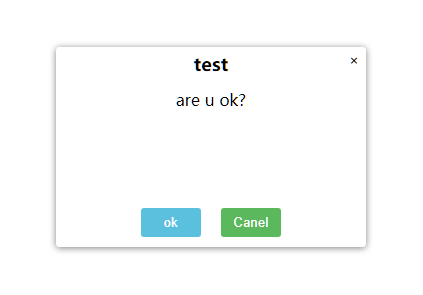
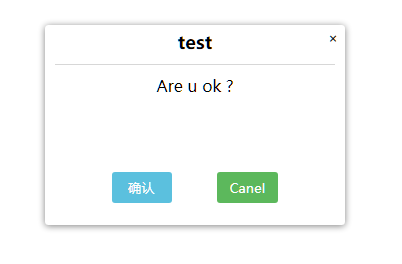
style update

Changed region(s): [[0.0896, 0.0606, 0.8955, 0.8788], [0.3881, 0.303, 0.597, 0.3636]]

diff --git a/style/layer.css b/style/layer.css
@@ -28,7 +28,7 @@
   opacity: 0.6;
 }
 .layer-dev {
-  width: 310px;
+  width: 300px;
   height: 200px;
   background-color: white;
 
@@ -46,10 +46,12 @@
   font-size: 18px;
   text-align: center;
   font-weight: 600;
-
   box-sizing: border-box;
   padding: 3px;
   padding-top: 5px;
+  padding-bottom: 10px;
+  margin: 0px 10px;
+  border-bottom: 1px solid #d7d7d7;
 }
 .layer-close-btn {
   position: absolute;
@@ -79,6 +81,7 @@
 .layer-frame-footer {
   box-sizing: border-box;
   margin: 5px 3px;
+  margin-bottom: 10px;
 
   display: flex;
   justify-content: center;
@@ -86,7 +89,7 @@
 }
 .layer-frame-confirm-btn {
   /*margin: 0px 5px;*/
-  margin-right: 10px;
+  margin-right: 30px;
   background-color: #5bc0de;
   color: white;
   transition-duration: 0.3s;
@@ -100,7 +103,7 @@
 }
 .layer-frame-canel-btn {
   /*margin: 0px 5px;*/
-  margin-left: 10px;
+  margin-left: 15px;
   background-color: #5cb85c;
   color: white;
   transition-duration: 0.3s;
@@ -121,10 +124,12 @@
   padding: 7px 12px;
 
   min-width: 60px;
-  margin-bottom: 5px;
+  margin-bottom: 12px;
   outline: none;
   user-select: none;
   cursor: pointer;
+  
+  font-family: sans-serif;
 }
 
 

diff --git a/forDev.html b/forDev.html
@@ -42,8 +42,8 @@
 	
 		var layerConfig = {
 			title: 'test',
-			content: 'are u ok?',
-			confirm: 'ok',
+			content: 'Are  u  ok ?',
+			confirm: '确认',
 			// animation: false
 		};
 
